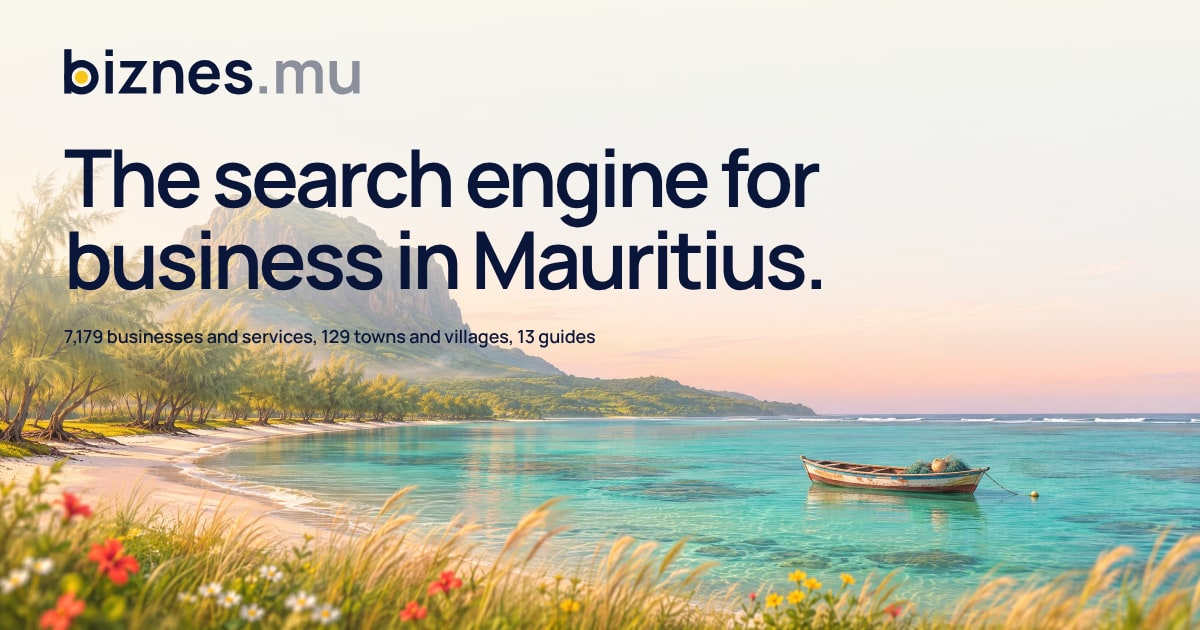
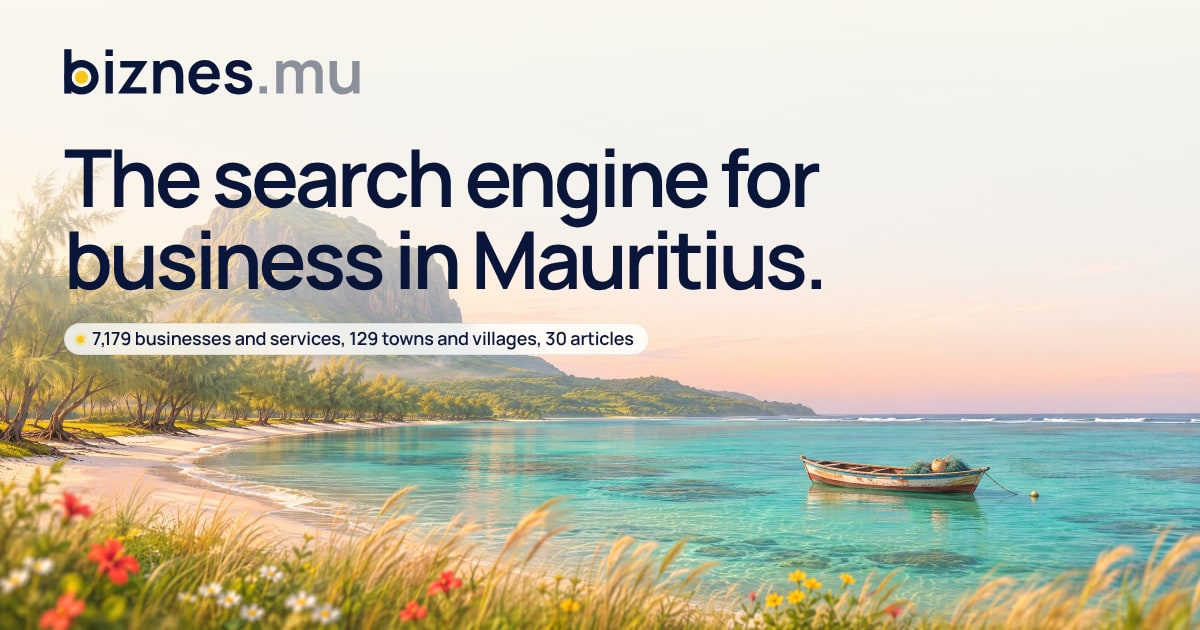
Ask for every page afresh from the offline worker, and record the final checks
A page that had just changed could be shown as it was, because the browser handed the
worker the copy it had kept. The worker now asks past that store. The README carries
the round's last results: 106 behaviour checks, the accounts' 186 database rules and
118 browser checks on a local stack, and what the design review led to.

Claude-Session: https://claude.ai/code/session_01XhDNYgCafjWKHi7dqg3P8m

Changed region(s): [[0.0308, 0.5127, 0.555, 0.573]]

diff --git a/public/sw.js b/public/sw.js
@@ -11,7 +11,7 @@
 //
 // Raise VERSION when this file changes what it keeps, or when a file under /themes/ or /icons/ is
 // replaced under the same name. The caches of the older version are then deleted.
-const VERSION = "v1";
+const VERSION = "v2";
 const PREFIX = "biznes-";
 const SHELL = `${PREFIX}shell-${VERSION}`; // kept from the start: the offline page and the icons
 const ASSETS = `${PREFIX}assets-${VERSION}`; // files that never change under the same address
@@ -82,7 +82,10 @@ self.addEventListener("fetch", (event) => {
 /** A page: the network first, and a copy kept for the day there is none. */
 async function page(event) {
   try {
-    const response = await fetch(event.request);
+    // The page is asked for afresh, past the browser's own store. A worker's request is not a
+    // visit in the browser's eyes, so without this the browser may hand back the copy it kept
+    // while it fetches a new one, and a page that has just changed would be shown as it was.
+    const response = await fetch(event.request, { cache: "no-cache" });
     // A redirect comes back sealed, and the server can give its address twice on a page's first
     // making, which a browser forgives and a worker's sealed copy does not. So the worker asks
     // where the address leads and sends the browser there itself.

diff --git a/src/components/AccountControl.tsx b/src/components/AccountControl.tsx
@@ -46,7 +46,7 @@ export default function AccountControl() {
   if (!accountsOn) return null;
   if (who) {
     return (
-      <Link prefetch={false} href="/account" className="icon-btn icon-btn-edge title-2 hidden text-ink sm:inline-grid" aria-label={who.name ? `Your account, ${who.name}` : "Your account"} title="Your account">
+      <Link prefetch={false} href="/account" className="icon-btn icon-btn-sq title-2 hidden text-ink sm:inline-grid" aria-label={who.name ? `Your account, ${who.name}` : "Your account"} title="Your account">
         <span aria-hidden>{who.initial || "?"}</span>
       </Link>
     );

diff --git a/README.md b/README.md
@@ -718,23 +718,22 @@ The old site's addresses lead on for good: `/businesses` and `/businesses/...` t
 
 ## Verification
 
-The state of the checks on 20 November 2026, with the round still open. Nothing is claimed beyond
+The state of the checks on 20 November 2026, at the end of the round. Nothing is claimed beyond
 this list.
 
 | Check | Command | Result |
 |---|---|---|
 | Types | `npm run typecheck` | Clean |
-| House style | `npm run copy` | 0 failures, 121 files |
+| House style | `npm run copy` | 0 failures, 176 files |
 | Tokens | `npm run tokens` | 0 failures |
 | Contrast | `npm run contrast` | Every pair passes |
 | Words on the picture | `npm run hero` | The first screen's headline and the line under it, measured against all four pictures at a desk and on a phone: the lowest is 5.77:1 |
 | Design record | `npm run design` | 0 errors |
-| Behaviour | `npm run behaviour` | 87 of 87, against a production server |
-| Accessibility | `npm run a11y` | axe-core, clean on every kind of page at phone size in the last full run. The run at desk size is still to be redone |
-| Captures | `npm run screenshots` | Still to be redone. The captures kept in `review/screens` are of the earlier design |
-
-The desk run of the accessibility check and the final captures wait for the accounts to be merged,
-so that they are made once, on the whole site.
+| Behaviour | `npm run behaviour` | 106 of 106, against a production server with accounts off |
+| Accessibility | `npm run a11y` | axe-core, WCAG 2.2 AA: clean on every kind of public page, at a desk and on a phone |
+| Captures | `npm run screenshots` | Every kind of page at both sizes, with no page wider than its screen |
+| The accounts' rules in the database | `npm run test:rls` | 186 of 186, on a local Postgres |
+| The accounts in a browser | `node scripts/accounts-e2e.mjs` | 118 of 118, against Supabase's own database, sign-in and API services run on this machine (`scripts/accounts-stack.sh`), including axe-core on the account pages. Not against a hosted project: there is none yet |
 
 The behaviour, accessibility and capture checks, and `npm run hero`, need a production server. The
 behaviour check starts the form's own receiver, so the form is tested end to end:
@@ -756,13 +755,24 @@ the redirect, with its sources, the age of its record, its telephone link and it
 the old addresses; robots, the sitemap and `llms.txt`; an article's citations; the VAT sums; the
 two tools drawn from guides; the form's errors, its delivery, its honeypot and its rate limit, and
 what it does with no route set (it starts a second server on port 3101 for that); the site with no
-script; the menu's groups; narrowing by telephone number and by town; saving, the saved page and a
-shared list; the three plans and their prices; and, on a phone, pages no wider than the screen,
-the tab bar, the menu, the small island above a list and an article's contents.
+script; the menu's groups; answers to general questions (an emergency number as a button that
+calls it, a holiday's date, an article's own words, a question about how led by an article, a
+business's own name led by businesses); narrowing by telephone number and by town; saving, the
+saved page and a shared list; the three plans and their prices; the pocket guide's price, its
+sponsors and that it is not handed out while it is sold; and, on a phone, fourteen pages no wider
+than the screen itself, the tab bar on the first screen, the menu, the emergency numbers one tap
+from the first screen, and an article's contents.
 
-**One fix worth knowing.** On a page's first making the server gives a redirect's address twice. A
-browser forgives that; a service worker's sealed copy of the redirect does not, and the page
-failed to open. The worker now resolves a redirect itself (`public/sw.js`).
+**Two fixes worth knowing,** both in `public/sw.js`. On a page's first making the server gives a
+redirect's address twice. A browser forgives that; a service worker's sealed copy of the redirect
+does not, and the page failed to open: the worker now resolves a redirect itself. And a worker's
+request for a page is not a visit in the browser's eyes, so the browser handed back the copy it
+had kept while it fetched a new one, and a page that had just changed was shown as it was: the
+worker now asks for every page afresh. The accounts' checks found the second.
+
+**A design review by a fresh reviewer** was run on a built copy at both sizes, with a keyboard and
+twenty-two searches: twenty-three findings, one of them a blocker. What was done about each, and
+the five things left, are in `STORY.md` ("The design review of Round 4").
 
 **Tested, but not where it matters most:**
 
@@ -771,8 +781,8 @@ failed to open. The worker now resolves a redirect itself (`public/sw.js`).
 
 **Not run, and why:**
 
-- **The accounts against a live Supabase project.** There is no project yet.
-- **A design review by a fresh reviewer.** None has been run on this round.
+- **The accounts against a hosted Supabase project.** There is no project yet: its creation waits
+  on the owner. What a hosted project adds to the local one is listed under Accounts.
 - **A reading by a practitioner.** The first item on the confirm list. This is the gap that matters.
 - **Speed measurements** (Lighthouse, real devices on a mobile network). Not run in this session.
 - **A screen reader, by ear.** axe-core passes; nobody has listened to it.
@@ -794,7 +804,6 @@ failed to open. The worker now resolves a redirect itself (`public/sw.js`).
 - **Most records are old.** Nine in ten of the map's listings were last edited more than two years
   ago. Each listing says when, and warns when it is over two years. Claimed listings would cure
   this.
-- **The shelf about Mauritius is not full**: four articles of eleven when this was written.
 - **One pocket guide.** The script and the shop hold one guide; the bundle is not built.
 - **A chain is one card a branch.**
 - **No French or Kreol pages.** A question in either is understood.
